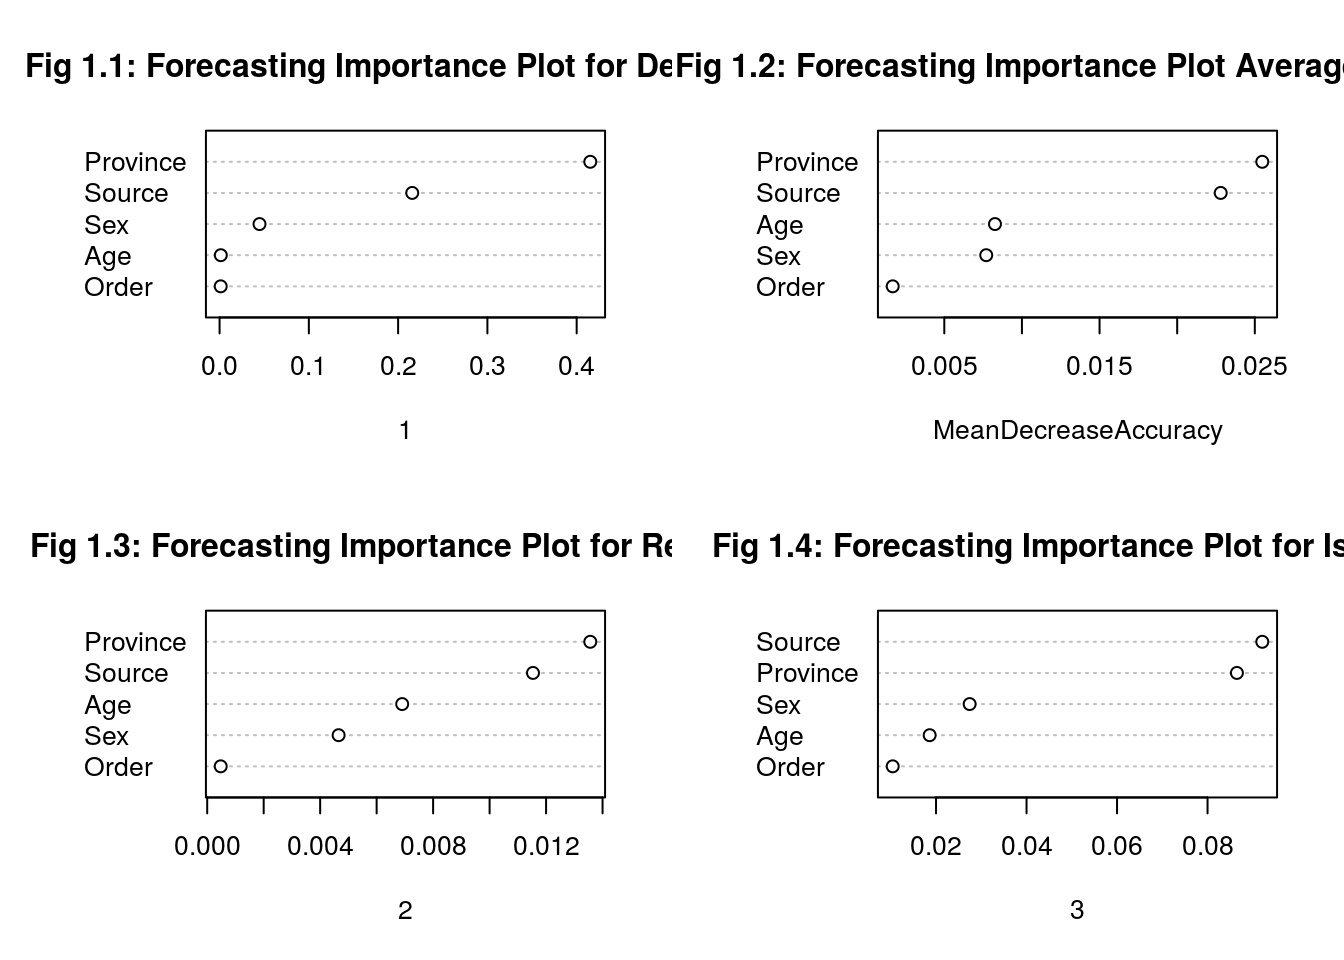
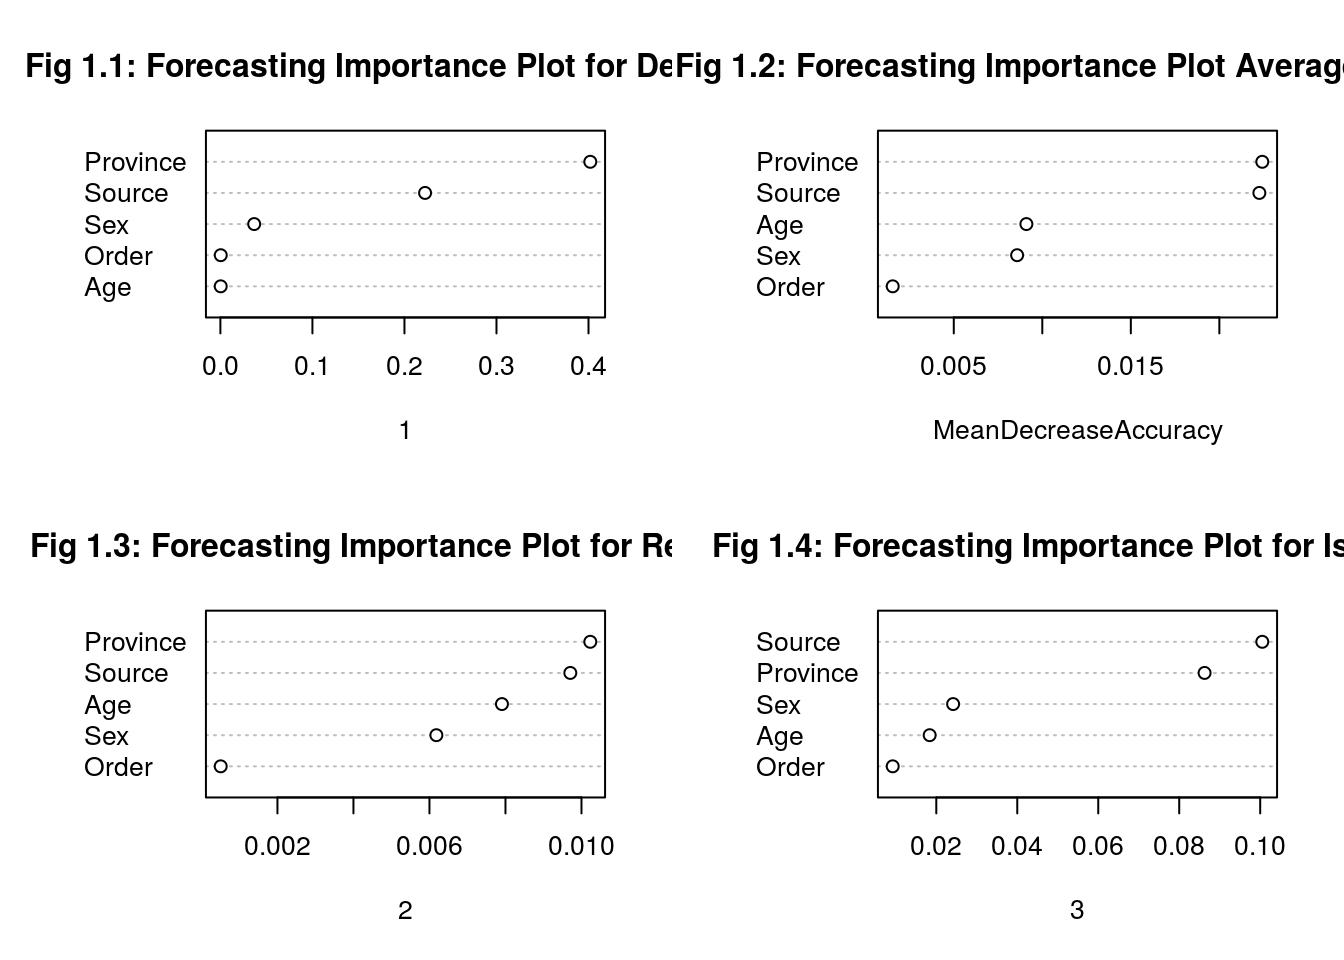
edits

diff --git a/machine_learning.html b/machine_learning.html
@@ -11,7 +11,7 @@
 
 
 
-<title>machine_learning.utf8</title>
+<title>this</title>
 
 <script src="site_libs/jquery-1.11.3/jquery.min.js"></script>
 <meta name="viewport" content="width=device-width, initial-scale=1" />
@@ -413,10 +413,16 @@ div.tocify {
 
 
 
+<h1 class="title toc-ignore">this</h1>
 
 </div>
 
 
+<script>
+$(document).ready(function(){
+    $('[data-toggle="popover"]').popover(); 
+});
+</script>
 <style type="text/css">
 .title {
   display: none;
@@ -444,73 +450,99 @@ div.tocify {
 #install.packages(&quot;kableExtra&quot;)
 library(randomForest)
 library(kableExtra)
+library(tidyverse)
 load(&quot;data/coronavirus_data.Rdata&quot;)
 rf &lt;- randomForest(outcome~Sex + Age + Province + Source +
                     Order, data=coronavirus_data,
                    importance = TRUE,
                    sampsize = c(21,12,26))
 dataframe &lt;- as.data.frame(rf$confusion)
-dataframe %&gt;%
-  kable() %&gt;%
-  kable_styling(bootstrap_options = c(&quot;striped&quot;, &quot;hover&quot;))</code></pre>
-<table class="table table-striped table-hover" style="margin-left: auto; margin-right: auto;">
+names(dataframe)[1] &lt;- &quot;Outcome1&quot;
+names(dataframe)[2] &lt;- &quot;Outcome2&quot;
+names(dataframe)[3] &lt;- &quot;Outcome3&quot;
+names(dataframe)[4] &lt;- &quot;Classification Error&quot;
+dataframe &lt;- dataframe %&gt;%
+  mutate(`Classification Error` = round(`Classification Error`, 2))
+dataframe &lt;- dataframe %&gt;%
+  mutate(`Classification Error` = cell_spec(`Classification Error`, &quot;html&quot;, color = ifelse(`Classification Error`&gt;
+                                                     0.5, &quot;green&quot;,
+                                                   &quot;black&quot;))) %&gt;%
+  mutate_if(is.numeric, function(x) {
+    cell_spec(x, bold = T)
+  }) %&gt;%
+  mutate(position = c(&quot;top&quot;, &quot;top&quot;, &quot;top&quot;),
+         text = c(&quot;text about the cost ratio&quot;, &quot;text about the cost ratio&quot;, &quot;text about the cost ratio&quot;),
+         name = c(&quot;0.19&quot;, &quot;0.87&quot;, &quot;0.04&quot;))
+
+dataframe$`Classification Error` &lt;- cell_spec(
+  dataframe$name,
+  popover = spec_popover(
+    content = dataframe$text,
+    title = NULL,  
+    position = dataframe$position
+  ))
+dataframe &lt;- dataframe %&gt;%
+  select(Outcome1, Outcome2, Outcome3, `Classification Error`)
+kable(dataframe, escape = FALSE) %&gt;%
+  kable_styling(&quot;striped&quot;, full_width = FALSE)</code></pre>
+<table class="table table-striped" style="width: auto !important; margin-left: auto; margin-right: auto;">
 <thead>
 <tr>
-<th style="text-align:right;">
-1
+<th style="text-align:left;">
+Outcome1
 </th>
-<th style="text-align:right;">
-2
+<th style="text-align:left;">
+Outcome2
 </th>
-<th style="text-align:right;">
-3
+<th style="text-align:left;">
+Outcome3
 </th>
-<th style="text-align:right;">
-class.error
+<th style="text-align:left;">
+Classification Error
 </th>
 </tr>
 </thead>
 <tbody>
 <tr>
-<td style="text-align:right;">
-26
+<td style="text-align:left;">
+<span style=" font-weight: bold;    ">26</span>
 </td>
-<td style="text-align:right;">
-1
+<td style="text-align:left;">
+<span style=" font-weight: bold;    ">1</span>
 </td>
-<td style="text-align:right;">
-5
+<td style="text-align:left;">
+<span style=" font-weight: bold;    ">5</span>
 </td>
-<td style="text-align:right;">
-0.1875000
-</td>
-</tr>
-<tr>
-<td style="text-align:right;">
-84
-</td>
-<td style="text-align:right;">
-236
-</td>
-<td style="text-align:right;">
-1493
-</td>
-<td style="text-align:right;">
-0.8698290
+<td style="text-align:left;">
+<span style="     " data-toggle="popover" data-trigger="hover" data-placement="top" data-content="text about the cost ratio">0.19</span>
 </td>
 </tr>
 <tr>
-<td style="text-align:right;">
-12
+<td style="text-align:left;">
+<span style=" font-weight: bold;    ">76</span>
 </td>
-<td style="text-align:right;">
-0
+<td style="text-align:left;">
+<span style=" font-weight: bold;    ">236</span>
 </td>
-<td style="text-align:right;">
-260
+<td style="text-align:left;">
+<span style=" font-weight: bold;    ">1501</span>
 </td>
-<td style="text-align:right;">
-0.0441176
+<td style="text-align:left;">
+<span style="     " data-toggle="popover" data-trigger="hover" data-placement="top" data-content="text about the cost ratio">0.87</span>
+</td>
+</tr>
+<tr>
+<td style="text-align:left;">
+<span style=" font-weight: bold;    ">13</span>
+</td>
+<td style="text-align:left;">
+<span style=" font-weight: bold;    ">1</span>
+</td>
+<td style="text-align:left;">
+<span style=" font-weight: bold;    ">258</span>
+</td>
+<td style="text-align:left;">
+<span style="     " data-toggle="popover" data-trigger="hover" data-placement="top" data-content="text about the cost ratio">0.04</span>
 </td>
 </tr>
 </tbody>
@@ -527,6 +559,7 @@ varImpPlot(rf, class = 2, type = 1, scale = FALSE,
 varImpPlot(rf, class = 3, type = 1, scale = FALSE, 
            main = &quot;Fig 1.4: Forecasting Importance Plot for Isolated&quot;)</code></pre>
 <p><img src="machine_learning_files/figure-html/unnamed-chunk-1-1.png" width="672" /></p>
+</script>
 </div>
 </div>
 

diff --git a/other.html b/other.html
@@ -341,8 +341,9 @@ $(document).ready(function () {
 <div class="row" style="padding-top: 90px;">
 <div class="col-sm-6">
 
-<p><em>The real voyage of discovery consists not in seeking new landscapes, but in having new eyes</em></p>
+
 <p></br></p>
+<p><em>The real voyage of discovery consists not in seeking new landscapes, but in having new eyes</em></p>
 <div id="music" class="section level4">
 <h4>Music</h4>
 <p>While I certainly miss the days of playing in a band in Austin, TX, I am lucky to have found some talented musicians to play with in Philadelphia. Check out our songs on <a href = "https://soundcloud.com/user-77041470" target = "_blank"> SoundCloud</a>, or catch us playing most weekends at Rittenhouse Park.</p>
